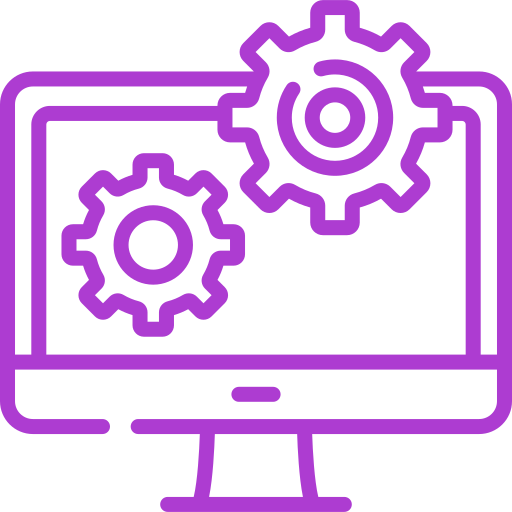
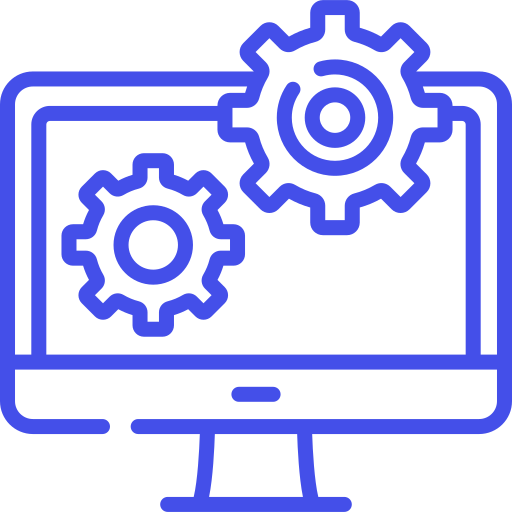
abous us pngs

diff --git a/frontend/src/styles/aboutUs.css b/frontend/src/styles/aboutUs.css
@@ -22,11 +22,12 @@
     -o-border-radius: 1em;
     background-color: rgba(255, 255, 255, 0.05);
 
+
 }
 .tittle_aboutus h1{
     padding-bottom: 1rem;
     margin-top: 1rem;
-    color: #00C3F6;
+    color:#444FE9;
     font-weight:bolder;
 }
 
